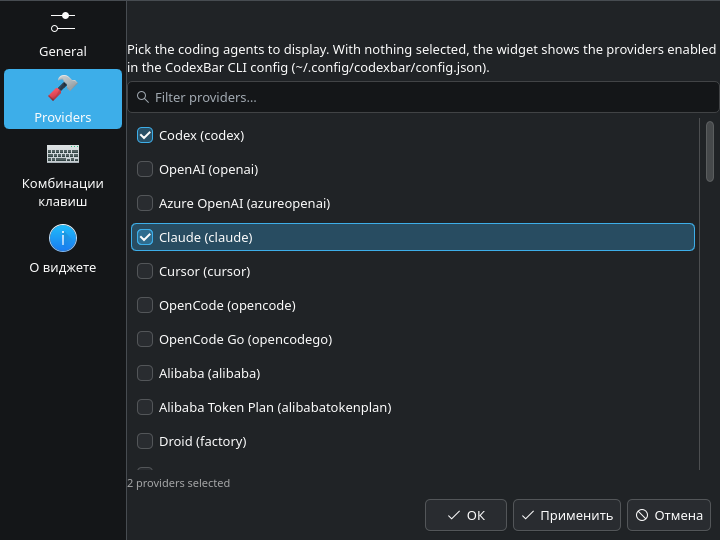
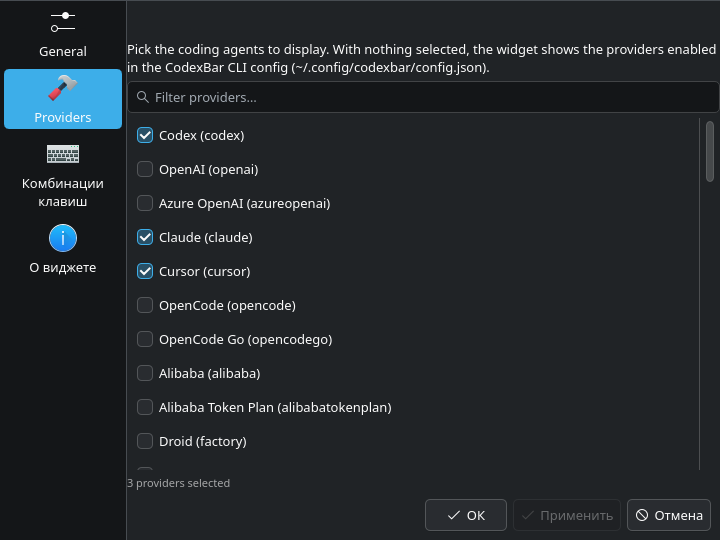
docs: refresh screenshots and README for radial used-percent gauges

Changed region(s): [[0.1833, 0.4148, 0.9778, 0.5333], [0.7333, 0.9481, 0.8556, 0.9778]]

diff --git a/README.md b/README.md
@@ -1,14 +1,19 @@
 # CodexBar-KDE
 
 KDE Plasma 6 widget (plasmoid) that shows AI coding-provider limits from the
-[CodexBar](https://github.com/steipete/CodexBar) CLI: session/weekly usage bars,
-reset countdowns, pace summaries, credits, and provider errors.
+[CodexBar](https://github.com/steipete/CodexBar) CLI as two-ring radial gauges
+(outer ring = session, inner ring = weekly, percent used), with reset
+countdowns, pace summaries, credits, and provider errors.
 
 Works both on the desktop and in a panel:
 
-| Panel (compact) | Popup dark | Popup light | Settings |
-| --- | --- | --- | --- |
-| ![panel](docs/panel.png) | ![popup](docs/popup.png) | ![popup light](docs/popup-light.png) | ![settings](docs/settings-providers.png) |
+| Panel (compact) | Popup dark | Popup light |
+| --- | --- | --- |
+| ![panel](docs/panel.png) | ![popup](docs/popup.png) | ![popup light](docs/popup-light.png) |
+
+Settings — pick which coding agents to display:
+
+![settings](docs/settings-providers.png)
 
 ## Requirements
 